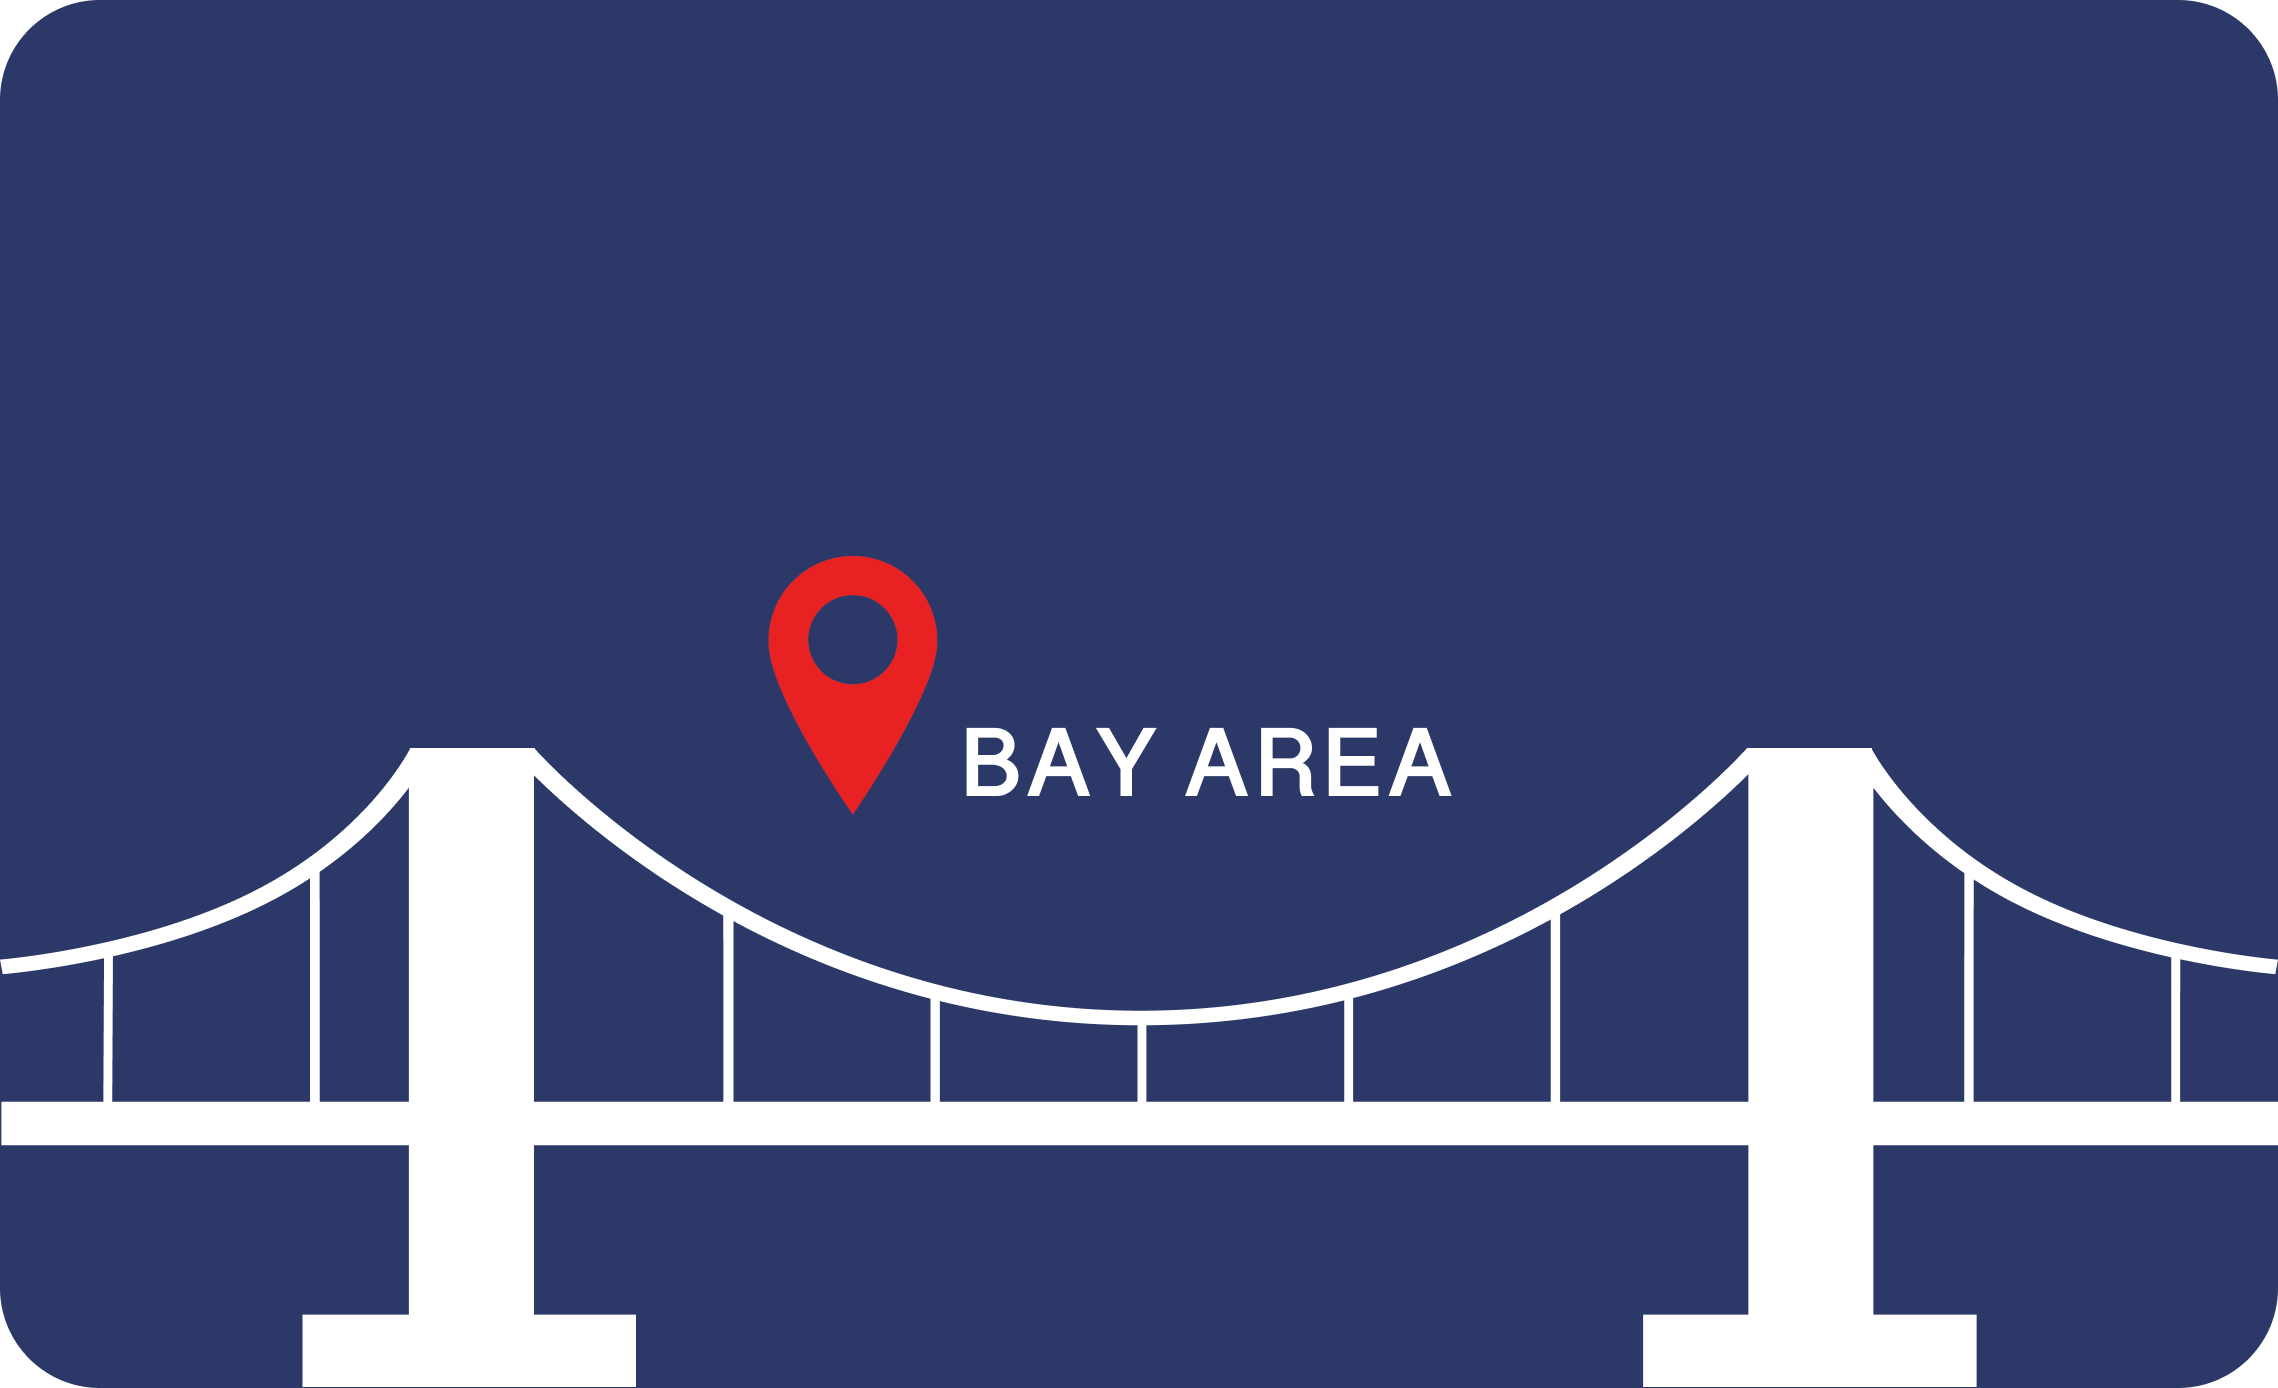
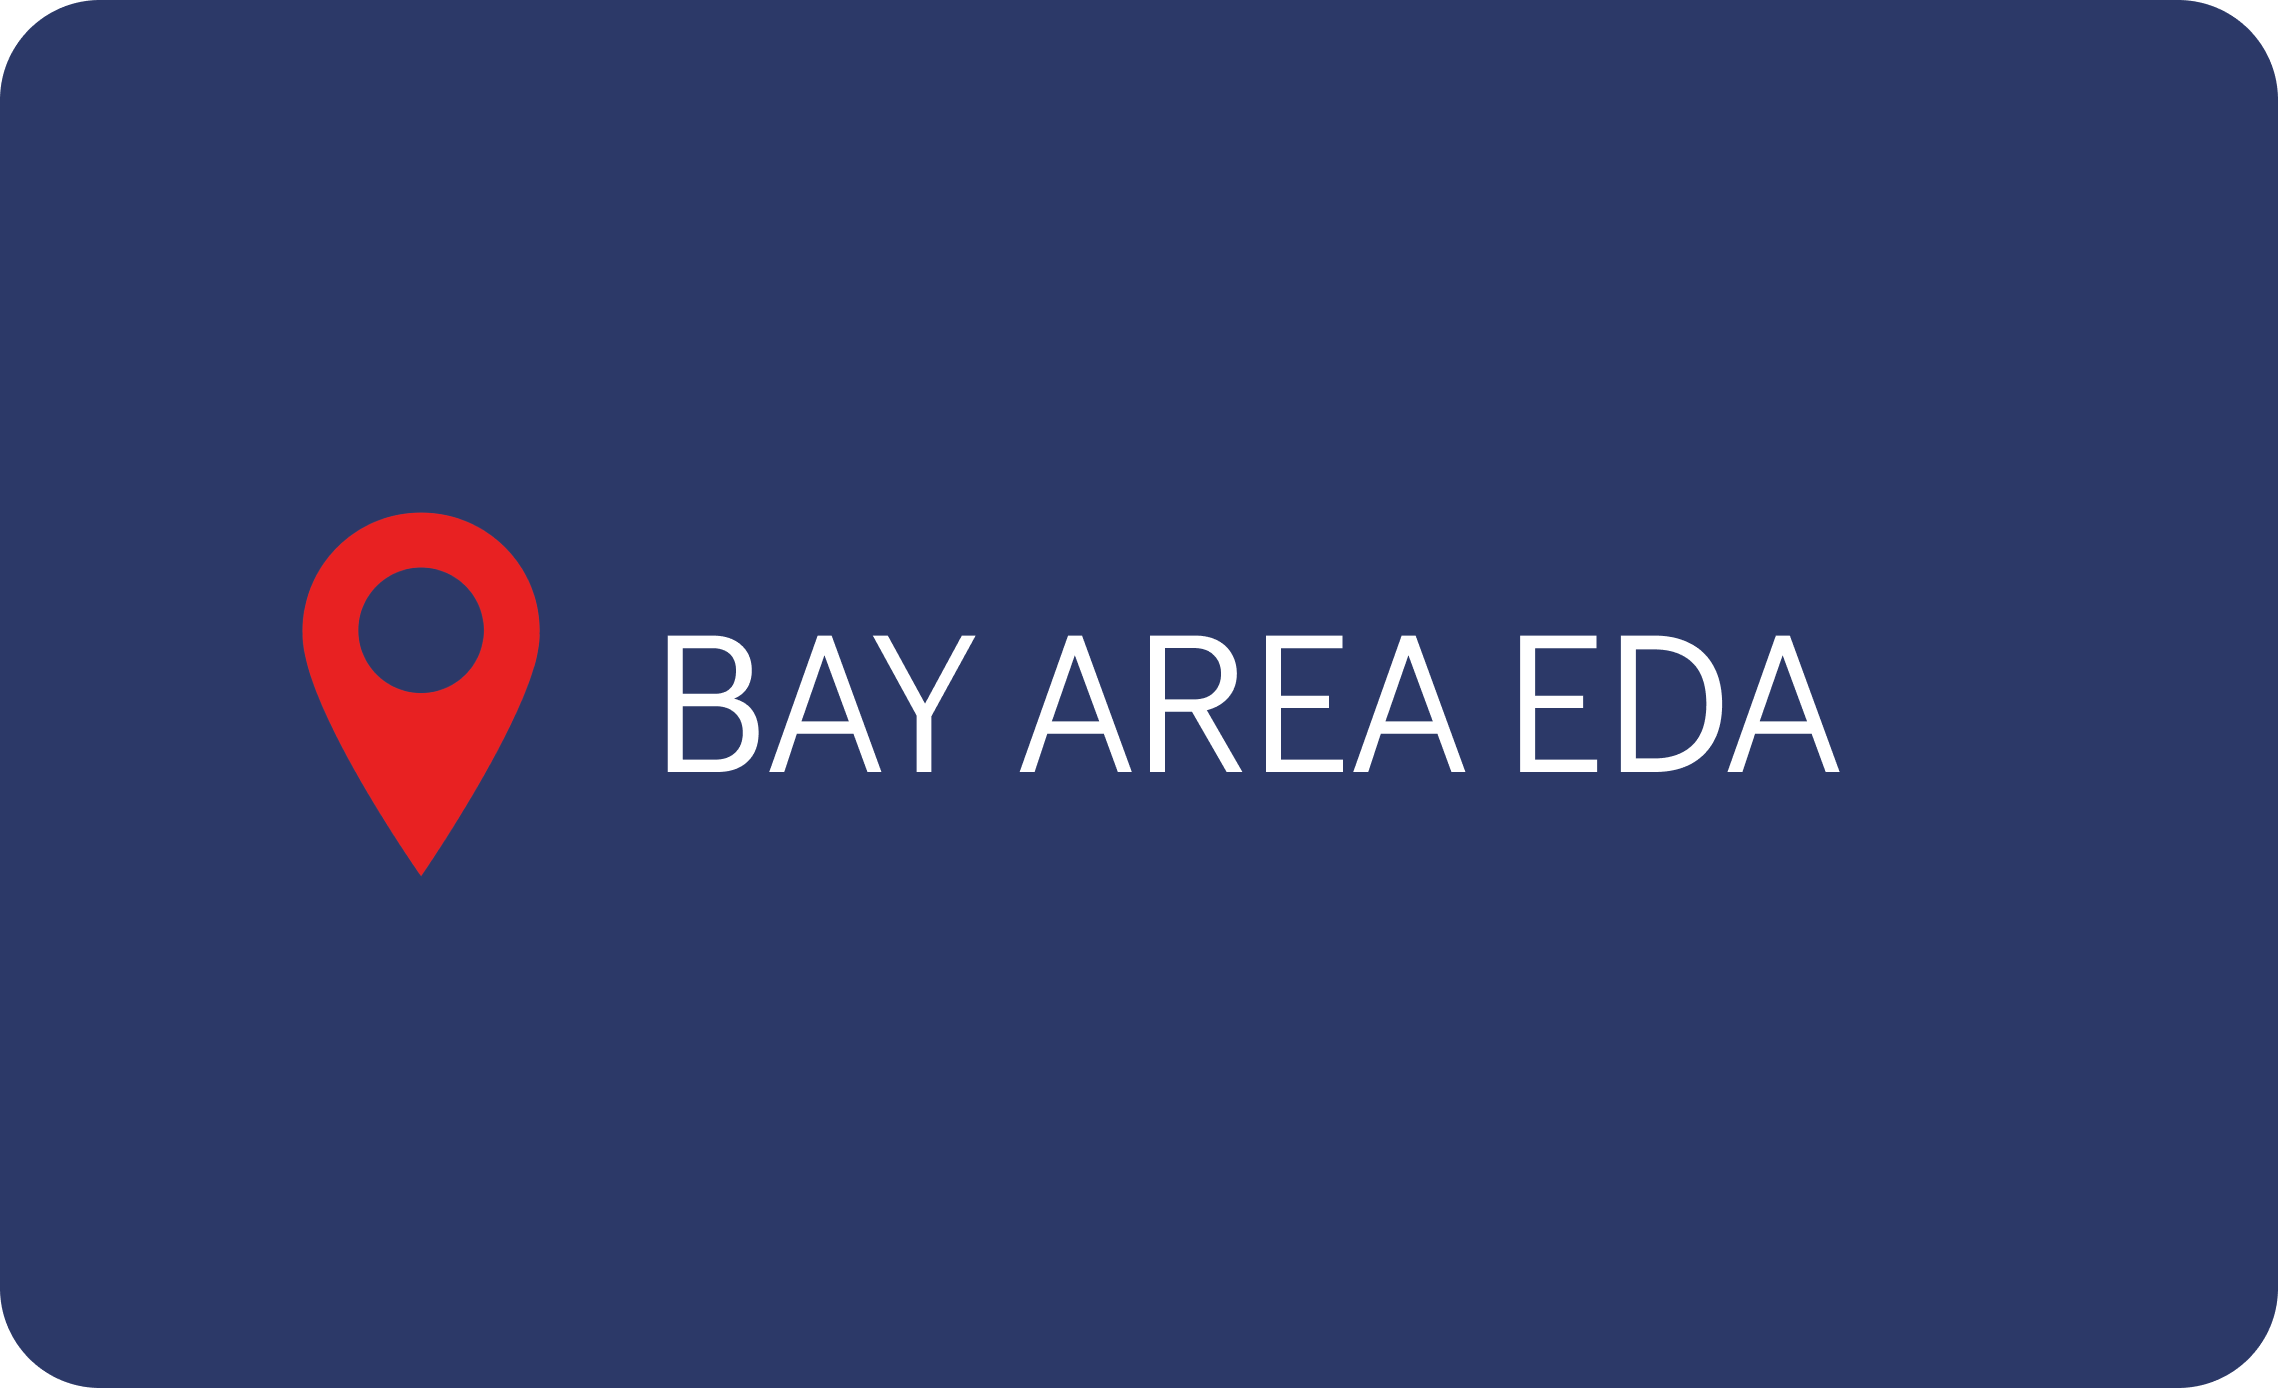
thumbnail & bg updates

Changed region(s): [[0.0, 0.3718, 1.0, 1.0], [0.6857, 0.6196, 0.7169, 0.6506], [0.2805, 0.6196, 0.3117, 0.6506]]

diff --git a/index.html b/index.html
@@ -14,7 +14,7 @@
     
 
 body {
-  background-color: #faeee7;
+  background-color: white;
 }
 
 .body {
@@ -136,7 +136,7 @@ p2 {
 }
 
 div.b {
-    background-color: #faeee7;
+    background-color: white;
 }
 
 img {
@@ -254,7 +254,7 @@ html {
   }
 
   .body {
-	background-color: #faeee7;
+	background-color: white;
 	align-items: center;
 	height: 90vh;
 	display: flex;
@@ -307,7 +307,7 @@ html {
 
 
     div.b {
-        background-color: #faeee7;
+        background-color: white;
         width: 100%;
     }
 
@@ -438,13 +438,23 @@ html {
 
   
         <!-- Mobile View Images -->
+
+
         <div class = "containerm">
-          <img class = "m" style="margin-left: auto; margin-right: auto;"src="Assets/lingoacethumbnail.png" alt="LingoAce Thumbnail"> 
+          <img class = "m" style="margin-left: auto; margin-right: auto;"src="Assets/googlemapsthumbnail.png" alt="Google Maps Thumbnail"> 
+        </div>
+
+        <div class = "containerm">
+          <img class = "m" src="Assets/lingoacethumbnail.png" alt="LingoAce Thumbnail"> 
         </div>
 
           <div class = "containerm">
           <img class = "m" src="Assets/sidechefthumbnail.png" alt="SideChef Thumbnail"> 
         </div>
+
+        <div class = "containerm">
+          <img class = "m" src="Assets/indicativethumbnail.png" alt="Indicative Thumbnail"> 
+      </div>
 
 
           <div class = "containerm">
@@ -459,12 +469,24 @@ html {
 
         <div style="display: flex; justify-content: center; padding: 14%; padding-top: 2%; padding-bottom: 5%;">
           <div class="containerd">
-              <img class="img_img" src="Assets/lingoacethumbnail.png" alt="LingoAce Thumbnail" style="height: 300px; max-width: 700px">
+              <img class="img_img" src="Assets/moviesanywherethumbnail.png" alt="Movies Anywhere Thumbnail" style="height: 300px; max-width: 700px">
           </div>
   
           <div>
             <div class="containerd">
-                <img class="img_img" src="Assets/sidechefthumbnail.png" alt="SideChef Thumbnail" style="height: 300px; max-width: 700px" > 
+                <img class="img_img" src="Assets/googlemapsthumbnail.png" alt="Google Maps Thumbnail" style="height: 300px; max-width: 700px" > 
+        </div>
+        </div>
+        </div>
+
+        <div style="display: flex; justify-content: center; padding: 14%; padding-top: 2%; padding-bottom: 5%;">
+          <div class="containerd">
+              <img class="img_img" src="Assets/lingoacethumbnail.png" alt="Lingoace Thumbnail" style="height: 300px; max-width: 700px">
+          </div>
+  
+          <div>
+            <div class="containerd">
+                <img class="img_img" src="Assets/indicativethumbnail.png" alt="Indicative Thumbnail" style="height: 300px; max-width: 700px" > 
         </div>
         </div>
         </div>
@@ -472,12 +494,24 @@ html {
 
         <div style="display: flex; justify-content: center; padding: 14%; padding-top: 0%; padding-bottom: 5%;">
           <div class="containerd">
-              <img class="img_img" src="Assets/proquestthumbnail.png" alt="ProQuest & NYU Thumbnail" style="height: 300px; max-width: 700px;">
+              <img class="img_img" src="Assets/sidechefthumbnail.png" alt="SideChef Thumbnail" style="height: 300px; max-width: 700px;">
           </div>
   
           <div>
             <div class="containerd">
-                <img class="img_img" src="Assets/bayareathumbnail.png" alt="Bay Area Thumbnail" style="height: 300px; max-width: 700px" > 
+                <img class="img_img" src="Assets/proquestthumbnail.png" alt="Proquest Thumbnail" style="height: 300px; max-width: 700px" > 
+        </div>
+        </div>
+        </div>
+
+        <div style="display: flex; justify-content: center; padding: 14%; padding-top: 0%; padding-bottom: 5%;">
+          <div class="containerd">
+              <img class="img_img" src="Assets/bayareathumbnail.png" alt="Bay Area Thumbnail" style="height: 300px; max-width: 700px;">
+          </div>
+  
+          <div>
+            <div class="containerd">
+                <img class="img_img" src="Assets/emptythumbnail.png" alt="N/A" style="height: 300px; max-width: 700px" > 
         </div>
         </div>
         </div>

diff --git a/resume.html b/resume.html
@@ -14,10 +14,10 @@
 
 
 body {
-  background-color: #faeee7;
+  background-color: white;
 }
 .body {
-		background-color: #faeee7;
+		background-color: white;
 		align-items: center;
 		height: 70vh;
 		display: flex;
@@ -119,7 +119,7 @@ a, a:hover, a:visited, a:active, a:link {
 }
 
 .text {
-  color: #faeee7;
+  color: white;
   font-family: 'Roboto Mono';
   font-size: 20px;
   position: absolute;
@@ -183,7 +183,7 @@ html {
   }
 
   .body {
-	background-color: #faeee7;
+	background-color: white;
 	align-items: center;
 	height: 90vh;
 	display: flex;
@@ -233,7 +233,7 @@ html {
 
 
     div.b {
-        background-color: #faeee7;
+        background-color: white;
         width: 100%;
     }
 
